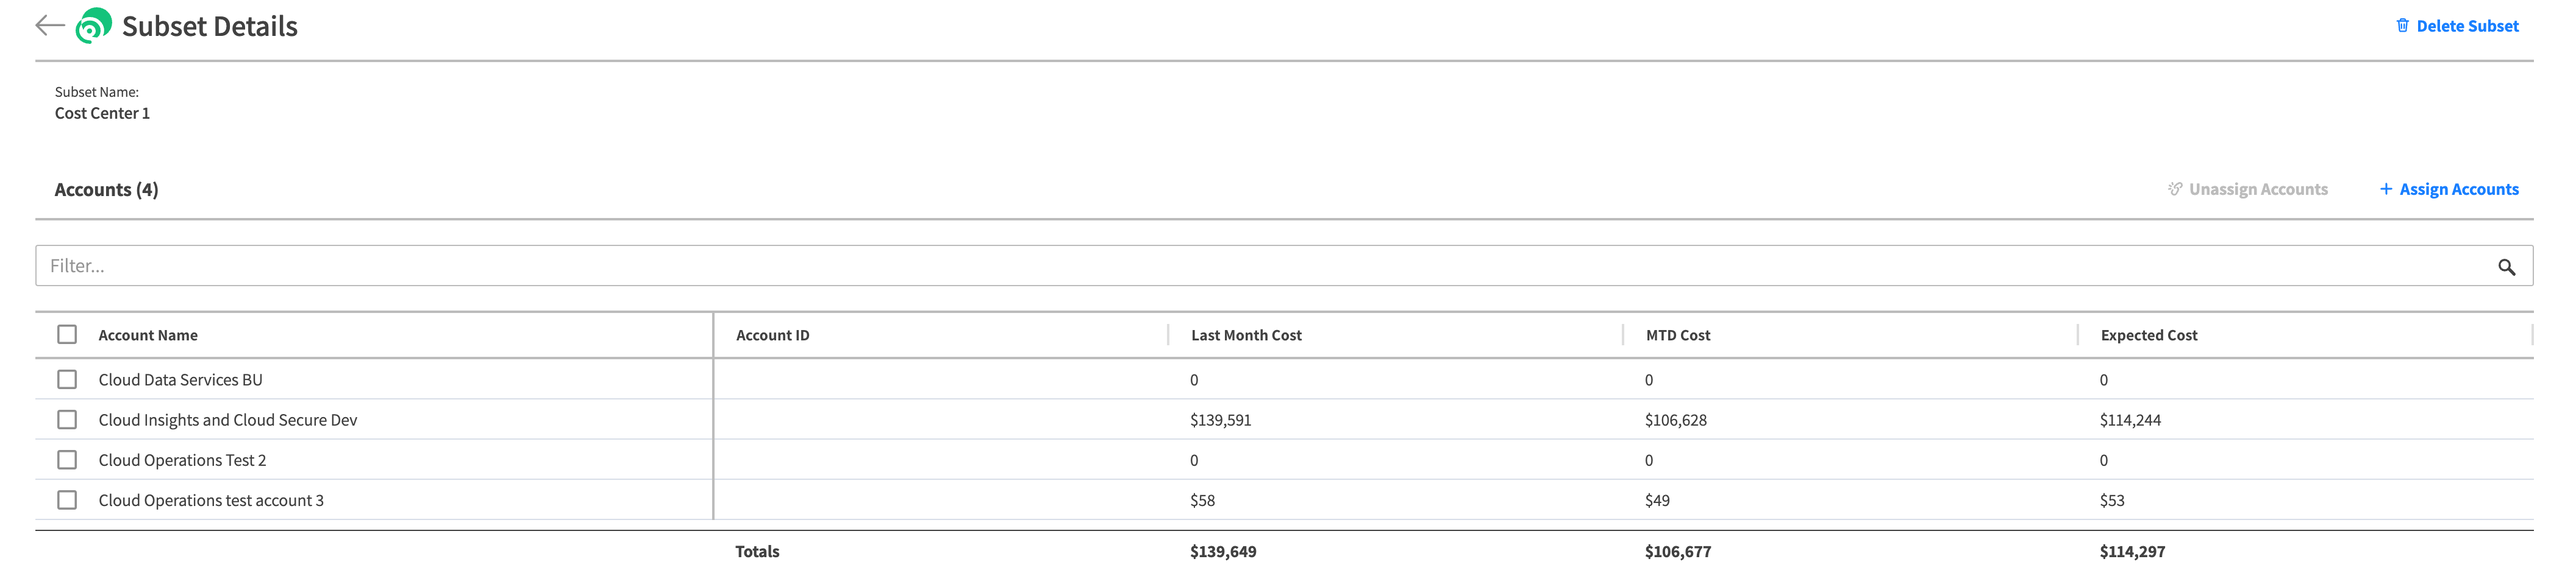
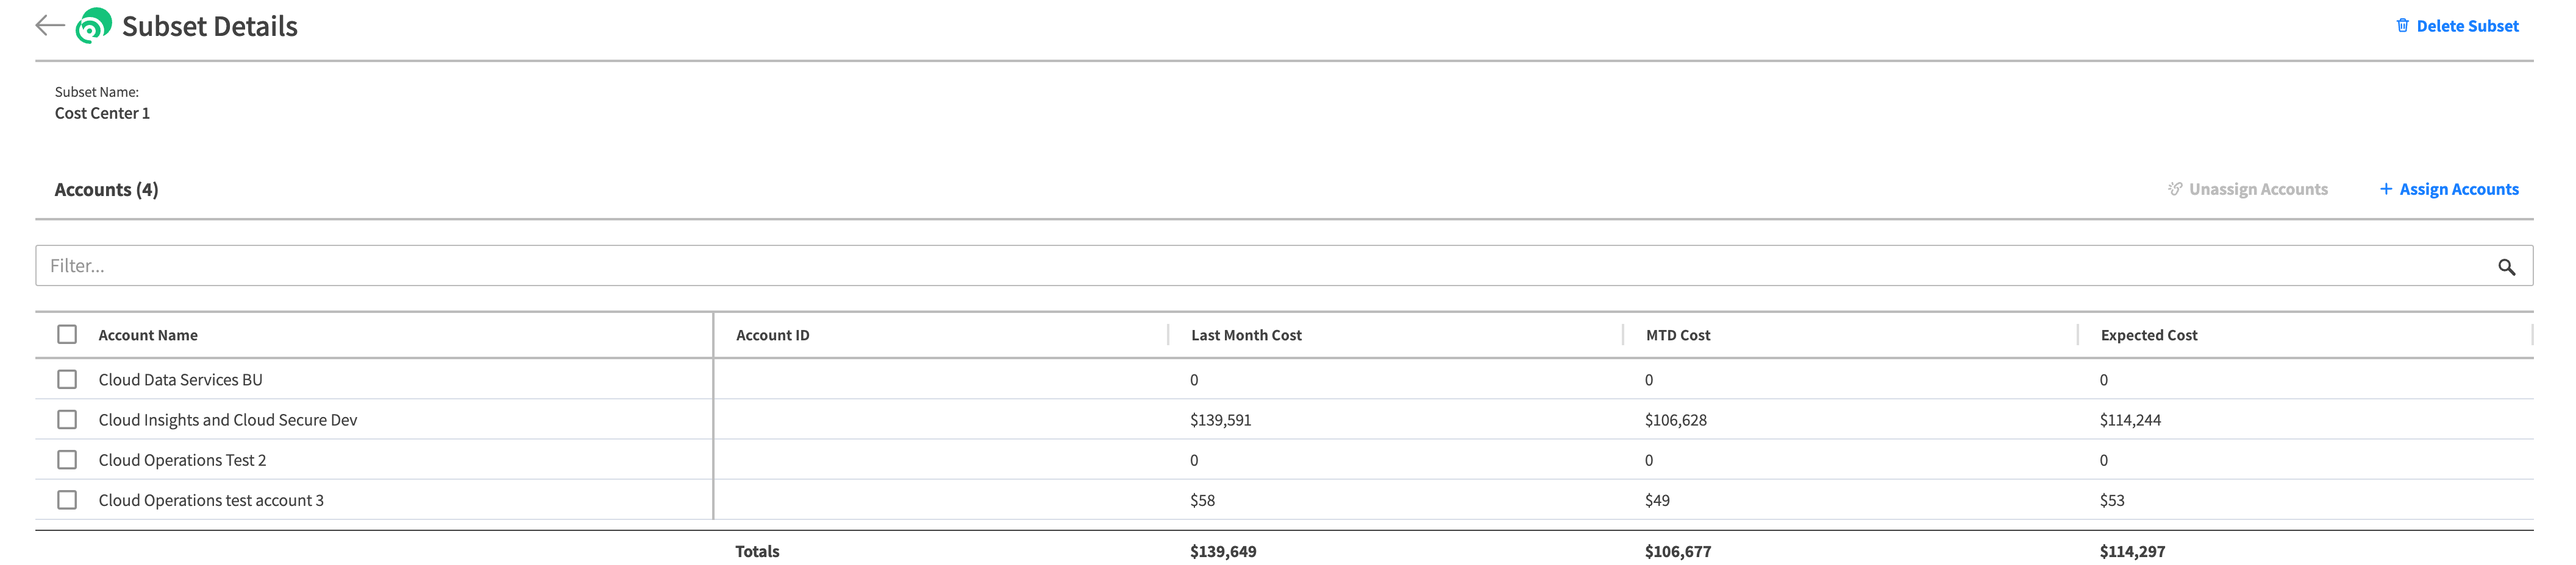
uhl

diff --git a/src/docs/eco/tutorials/manage-subsets.md b/src/docs/eco/tutorials/manage-subsets.md
@@ -20,7 +20,7 @@ For a given organization:
 
 2. Enter a name for the subset and then click Assign Accounts.
 
-<img src="/eco/_media/tutorials-manage-subsets-02a.png" width="534" height="276" />
+<img src="/eco/_media/tutorials-manage-subsets-02a.png" />
 
 3. Mark the accounts to be included in the subset and click Assign.
 
